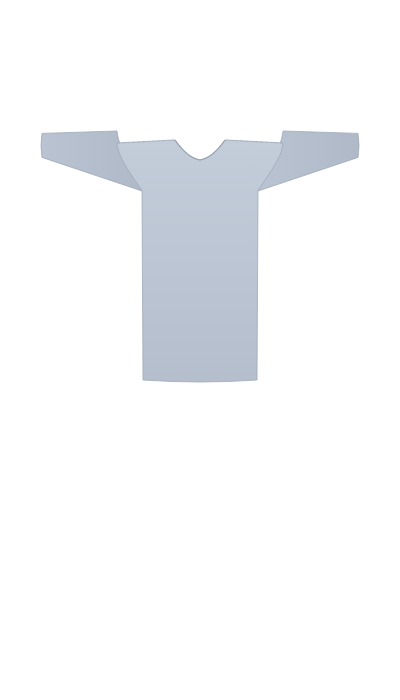
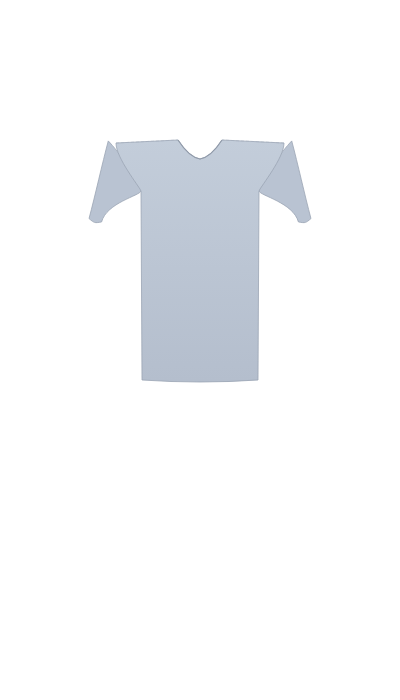
feat: 15도 포즈 티셔츠 이미지로 교체, 소매 워핑 제거 (이미지에 반영)

diff --git a/src/components/FittingPixi.tsx b/src/components/FittingPixi.tsx
@@ -47,27 +47,20 @@ function halfWidthAt(y: number, dims: AvatarDimensions): number {
   return pts[0][1];
 }
 
-const ARM_ANGLE = 15 * Math.PI / 180;
-
 /**
- * 메시 정점을 체형 차이에 따라 워핑.
- * isTshirt=true이면 소매 영역 정점을 T-포즈 → 15도로 회전.
+ * 메시 정점을 체형 차이에 따라 수평 워핑.
+ * 소매는 이미 15도가 이미지에 반영돼있으므로 회전 불필요.
  */
 function warpMesh(
   mesh: PIXI.SimplePlane,
   baseDims: AvatarDimensions,
   targetDims: AvatarDimensions,
   widthExtra: number = 1,
-  isTshirt: boolean = false,
 ) {
   const buf = mesh.geometry.buffers[0];
   const verts = buf.data as unknown as Float32Array;
   const cols = GRID_X + 1;
   const cx = W / 2;
-
-  const shX = targetDims.shoulderWidth / 2; // 어깨 반폭
-  const shoulderY = targetDims.shoulderY;
-  const chestY = targetDims.chestY;
 
   for (let j = 0; j <= GRID_Y; j++) {
     const origY = (j / GRID_Y) * H;
@@ -79,42 +72,11 @@ function warpMesh(
       const idx = (j * cols + i) * 2;
       const origX = (i / GRID_X) * W;
       const dx = origX - cx;
-
-      const origDx = Math.abs(origX - cx);
-      const baseShX = baseDims.shoulderWidth / 2;
-      const isSleeve = isTshirt && origDx > baseShX * 0.7 && origY < chestY + 30;
-
-      // 소매 영역은 수평 스케일 적용 안 함 (회전만)
-      let newX = cx + dx * (isSleeve ? 1 : ratio);
-      let newY = origY;
-
-      // 소매: T-포즈 → 15도로 회전
-      if (isSleeve) {
-        const side = origX > cx ? 1 : -1;
-        const pivotX = cx + side * shX;
-        const pivotY = shoulderY;
-        const relX = newX - pivotX;
-        const relY = newY - pivotY;
-
-        const angle = side * ARM_ANGLE;
-        const cos = Math.cos(angle);
-        const sin = Math.sin(angle);
-        newX = pivotX + relX * cos - relY * sin;
-        newY = pivotY + relX * sin + relY * cos;
-      }
-
-      verts[idx] = newX;
-      verts[idx + 1] = newY;
+      verts[idx] = cx + dx * ratio;
+      verts[idx + 1] = origY;
     }
   }
   buf.update();
-  if (isTshirt) {
-    // 디버그: 소매 끝 정점 위치 확인
-    const lastRowTop = 6; // shoulderY 근처 row
-    const rightEnd = GRID_X; // 가장 오른쪽 열
-    const dbgIdx = (lastRowTop * (GRID_X + 1) + rightEnd) * 2;
-    console.log(`[warp] tshirt sleeve end vertex: (${verts[dbgIdx].toFixed(1)}, ${verts[dbgIdx+1].toFixed(1)})`);
-  }
 }
 
 export default function FittingPixi({ body, clothingMeasurements, category = 'tshirt' }: Props) {
@@ -179,12 +141,12 @@ export default function FittingPixi({ body, clothingMeasurements, category = 'ts
   useEffect(() => {
     if (!mannequinRef.current) return;
 
-    warpMesh(mannequinRef.current, baseDims, avatarDims, 1, false);
+    warpMesh(mannequinRef.current, baseDims, avatarDims, 1);
 
     if (tshirtRef.current) {
       if (clothingDims) {
         const scale = Math.max(1, clothingDims.chestWidth / avatarDims.chestWidth);
-        warpMesh(tshirtRef.current, baseDims, avatarDims, scale, true);
+        warpMesh(tshirtRef.current, baseDims, avatarDims, scale);
         tshirtRef.current.visible = true;
       } else {
         tshirtRef.current.visible = false;
